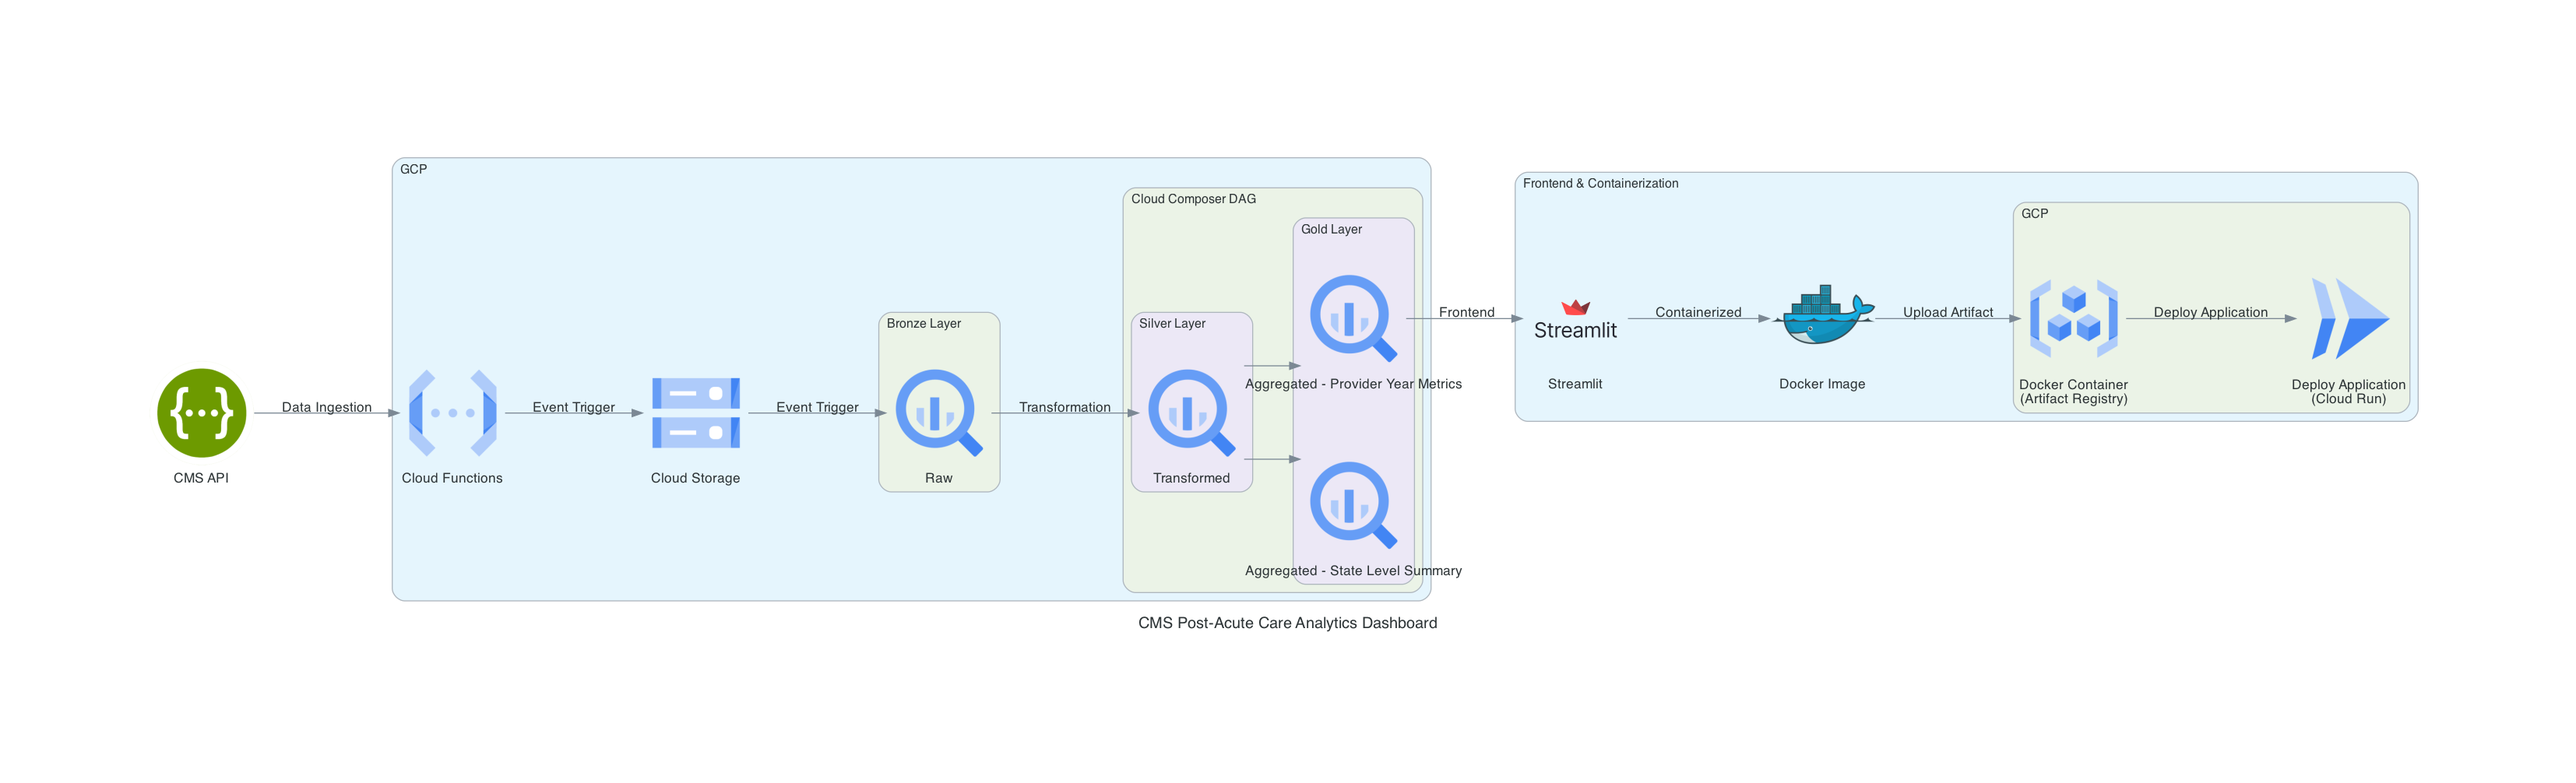
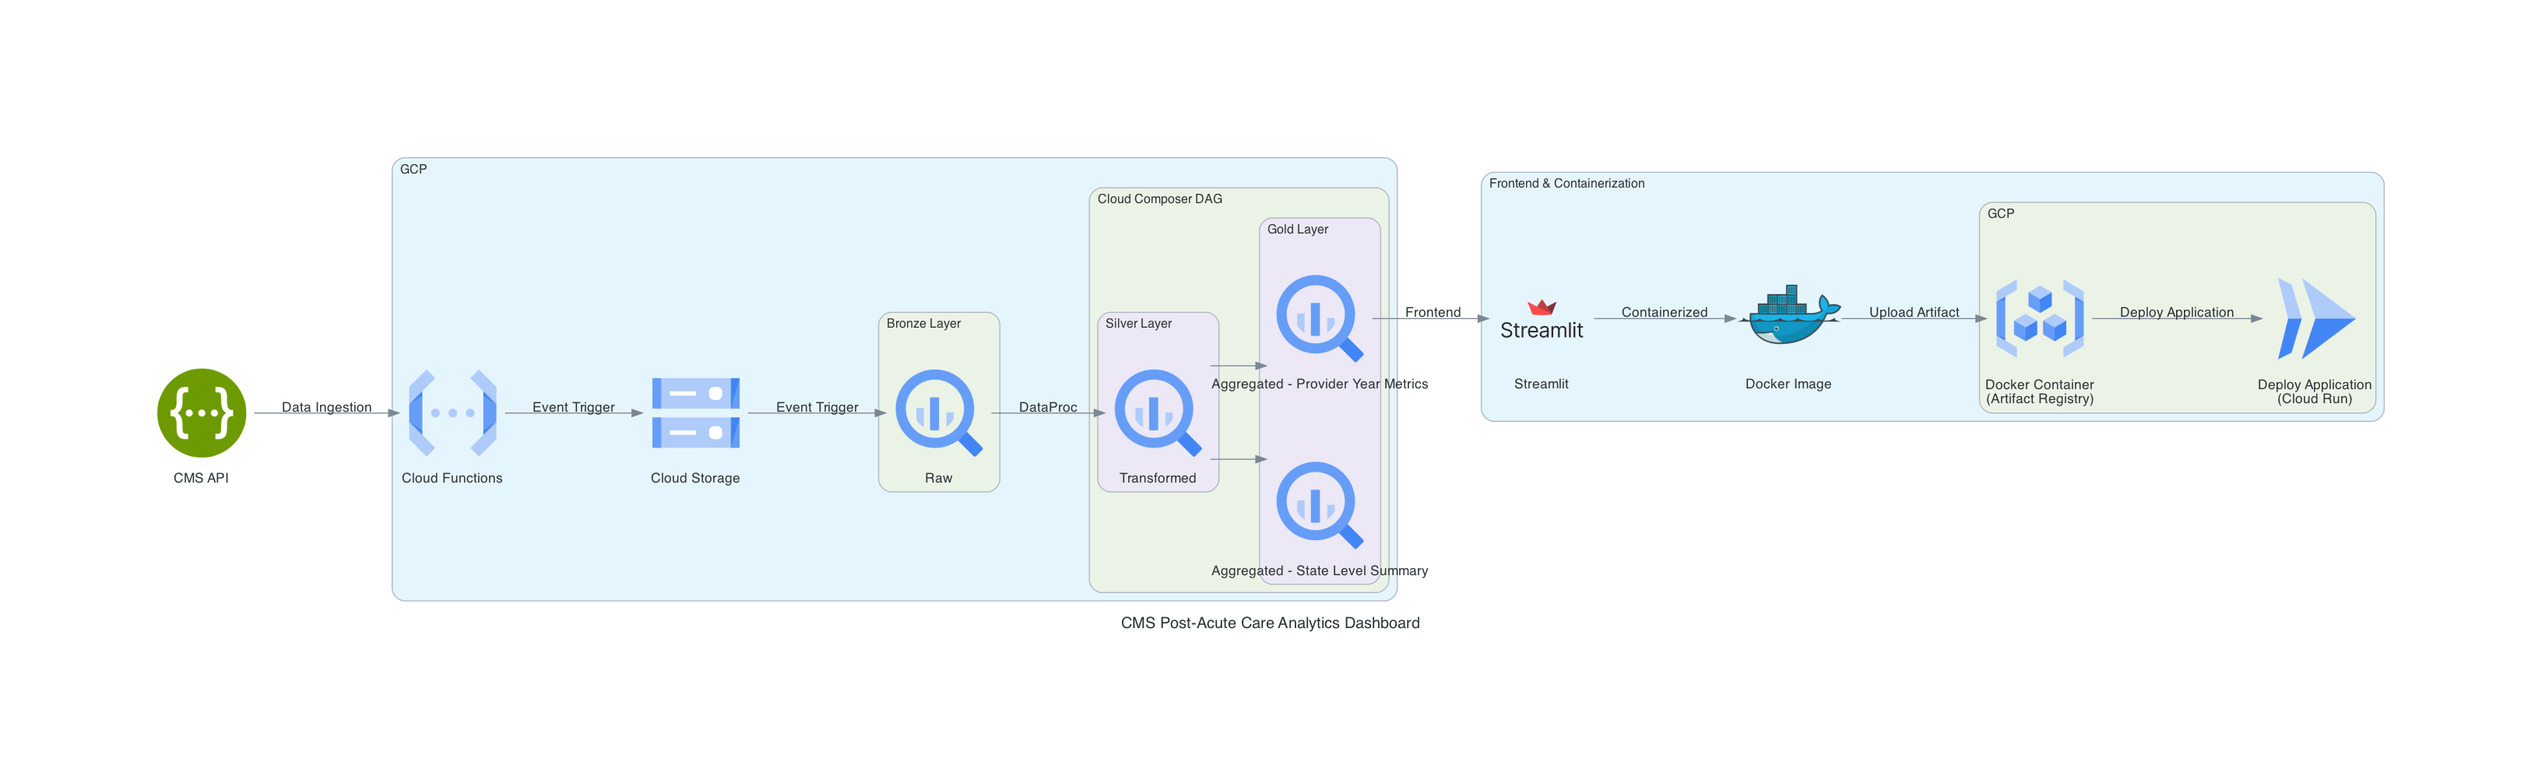
changes

diff --git a/architecture.py b/architecture.py
@@ -34,7 +34,7 @@ with Diagram(
         cms_api >> Edge(label="Data Ingestion") >> cloud_functions \
                 >> Edge(label="Event Trigger") >> gcs
         gcs >> Edge(label="Event Trigger") >> bigquery_raw
-        bigquery_raw >> Edge(label="Transformation") >> silver_bigquery
+        bigquery_raw >> Edge(label="DataProc") >> silver_bigquery
 
     with Cluster("Frontend & Containerization", direction="TB"):
         streamlit = Custom("Streamlit",
